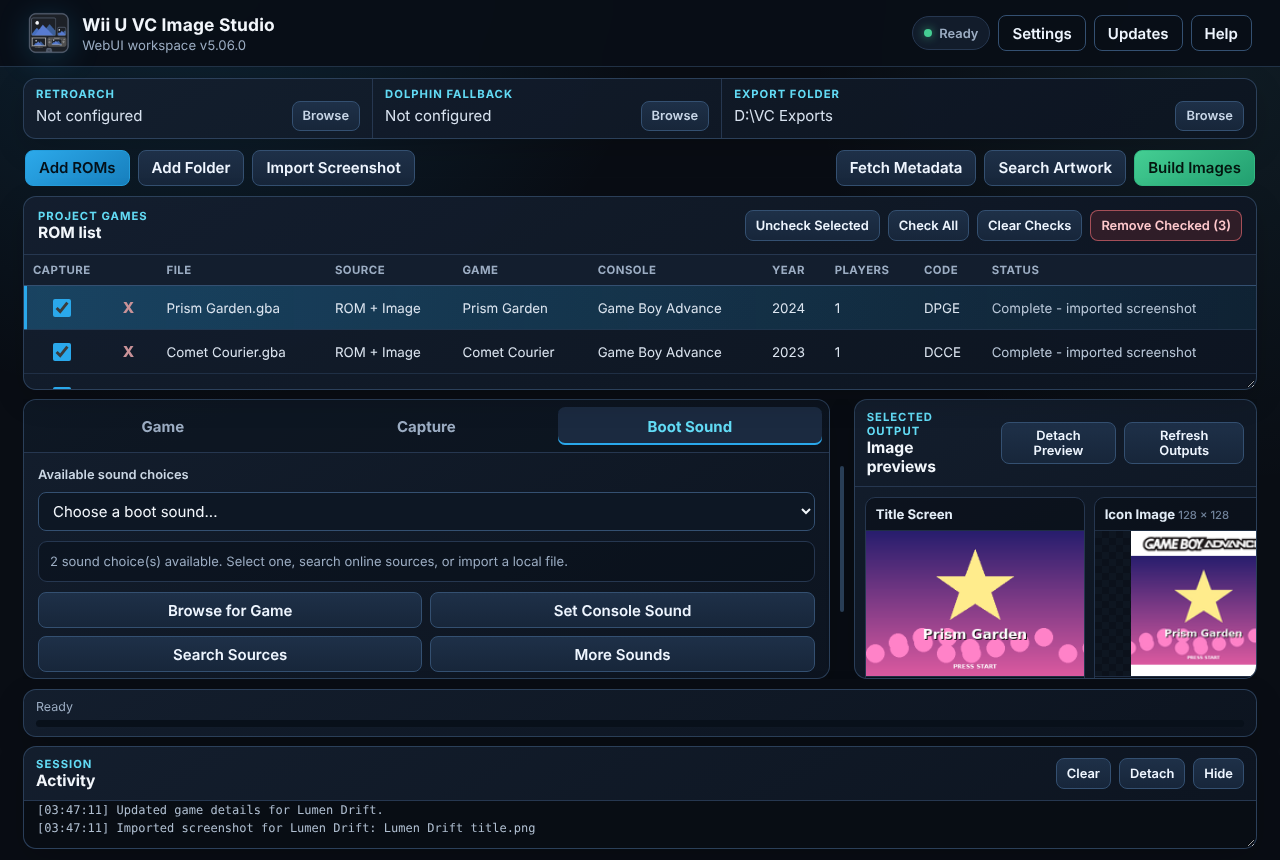
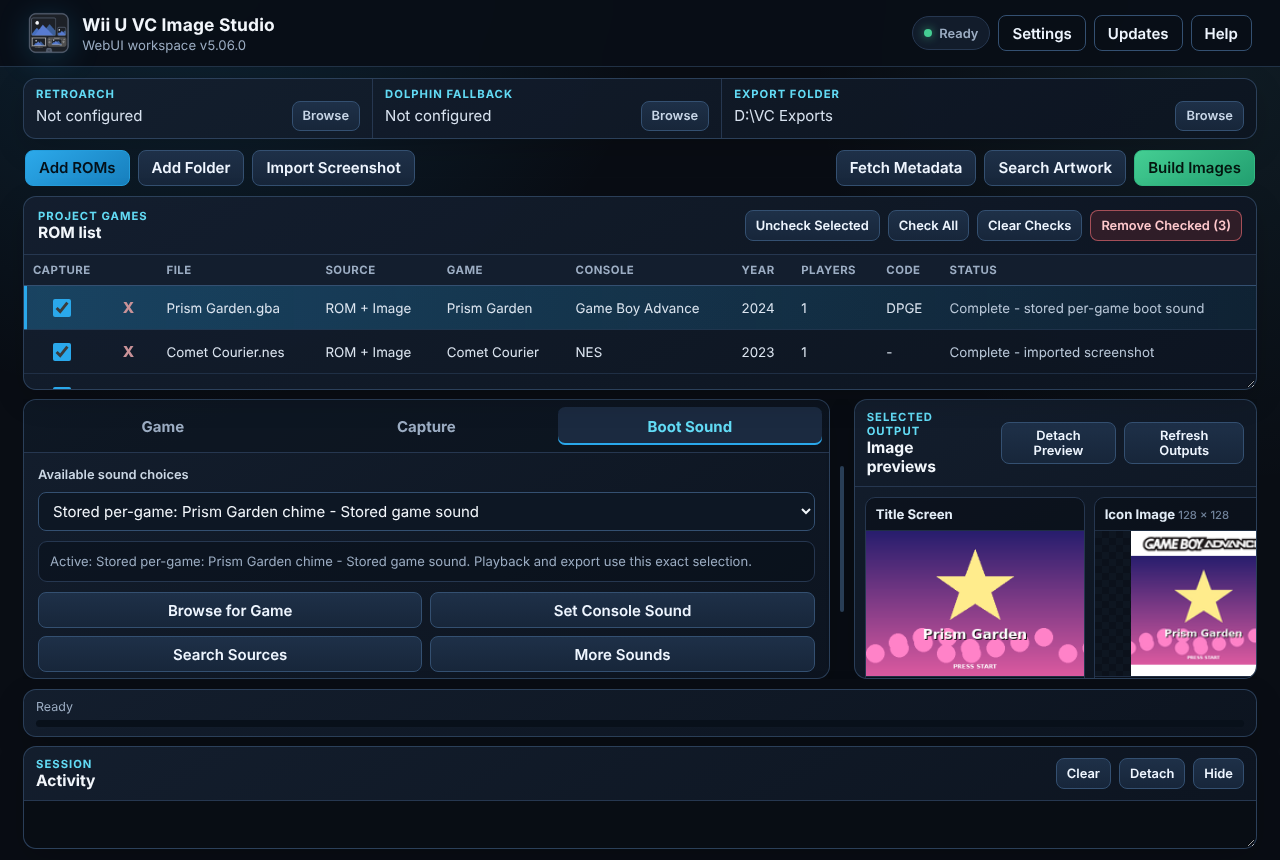
docs: add screenshots for every main feature (#3)
* docs: add screenshots for every main feature

Claude-Session: https://claude.ai/code/session_01AkZzWGrtgB5fTSFkheCvNi

* docs: crop dialog screenshots to keep them under 400 KB

Claude-Session: https://claude.ai/code/session_01AkZzWGrtgB5fTSFkheCvNi

* ci: pin the tests job to Ubuntu 24.04 for Playwright

ubuntu-latest moved to Ubuntu 26.04, where 'playwright install --with-deps
chromium' fails with 'Playwright does not support chromium on ubuntu26.04-x64'.

Claude-Session: https://claude.ai/code/session_01AkZzWGrtgB5fTSFkheCvNi

---------

diff --git a/README.md b/README.md
@@ -36,19 +36,56 @@ This independent utility is not affiliated with Nintendo.
 
 ### Screenshots
 
-Screens show fictional placeholder games and generated title screens.
+Screens show fictional placeholder games, generated title screens and a generated chime.
 
-**Imported title screen and the Icon, TV and Gamepad images Studio built from it**
+#### Games and metadata
 
-<img src="docs/images/generated-outputs.png" alt="Imported title screen and the Icon, TV and Gamepad images Studio built from it" width="900">
+**Edit Game Details: name, year, players, product code, region, publisher and developer**
 
-**Adjust Crop & Zoom with live previews**
+<img src="docs/images/edit-details.png" alt="Edit Game Details: name, year, players, product code, region, publisher and developer" width="900">
 
-<img src="docs/images/crop-and-zoom.png" alt="Adjust Crop & Zoom with live previews" width="900">
+#### Screenshots and capture
 
-**Boot Sound tab**
+<table>
+  <tr>
+    <td width="50%"><b>Capture tab: warm-up, scan duration, sampling and candidate settings</b><br><img src="docs/images/capture-tab.png" alt="Capture tab: warm-up, scan duration, sampling and candidate settings" width="440"></td>
+    <td width="50%"><b>Review captured or imported frames and pick the one to export</b><br><img src="docs/images/review-captures.png" alt="Review captured or imported frames and pick the one to export" width="440"></td>
+  </tr>
+</table>
 
-<img src="docs/images/boot-sound.png" alt="Boot Sound tab" width="900">
+#### Artwork and framing
+
+<table>
+  <tr>
+    <td width="50%"><b>Imported title screen and the Icon, TV and Gamepad images built from it</b><br><img src="docs/images/generated-outputs.png" alt="Imported title screen and the Icon, TV and Gamepad images built from it" width="440"></td>
+    <td width="50%"><b>Adjust Crop & Zoom with live previews</b><br><img src="docs/images/crop-and-zoom.png" alt="Adjust Crop & Zoom with live previews" width="440"></td>
+  </tr>
+  <tr>
+    <td width="50%"><b>Template Placement: the artwork rectangle on the 1280 x 720 TV template</b><br><img src="docs/images/template-placement.png" alt="Template Placement: the artwork rectangle on the 1280 x 720 TV template" width="440"></td>
+    <td width="50%"><b>A preview enlarged into its own window</b><br><img src="docs/images/enlarged-preview.png" alt="A preview enlarged into its own window" width="440"></td>
+  </tr>
+</table>
+
+#### Detached previews
+
+**The whole preview panel detached, here showing a Dark Frame icon**
+
+<img src="docs/images/detached-preview-panel.png" alt="The whole preview panel detached, here showing a Dark Frame icon" width="900">
+
+#### Boot sounds
+
+**A WAV imported as a stored per-game boot sound**
+
+<img src="docs/images/boot-sound.png" alt="A WAV imported as a stored per-game boot sound" width="900">
+
+#### Settings and help
+
+<table>
+  <tr>
+    <td width="50%"><b>Settings: export folder, emulators, artwork sources and activity logging</b><br><img src="docs/images/settings.png" alt="Settings: export folder, emulators, artwork sources and activity logging" width="440"></td>
+    <td width="50%"><b>Documentation Center</b><br><img src="docs/images/help.png" alt="Documentation Center" width="440"></td>
+  </tr>
+</table>
 
 ## Download
 
